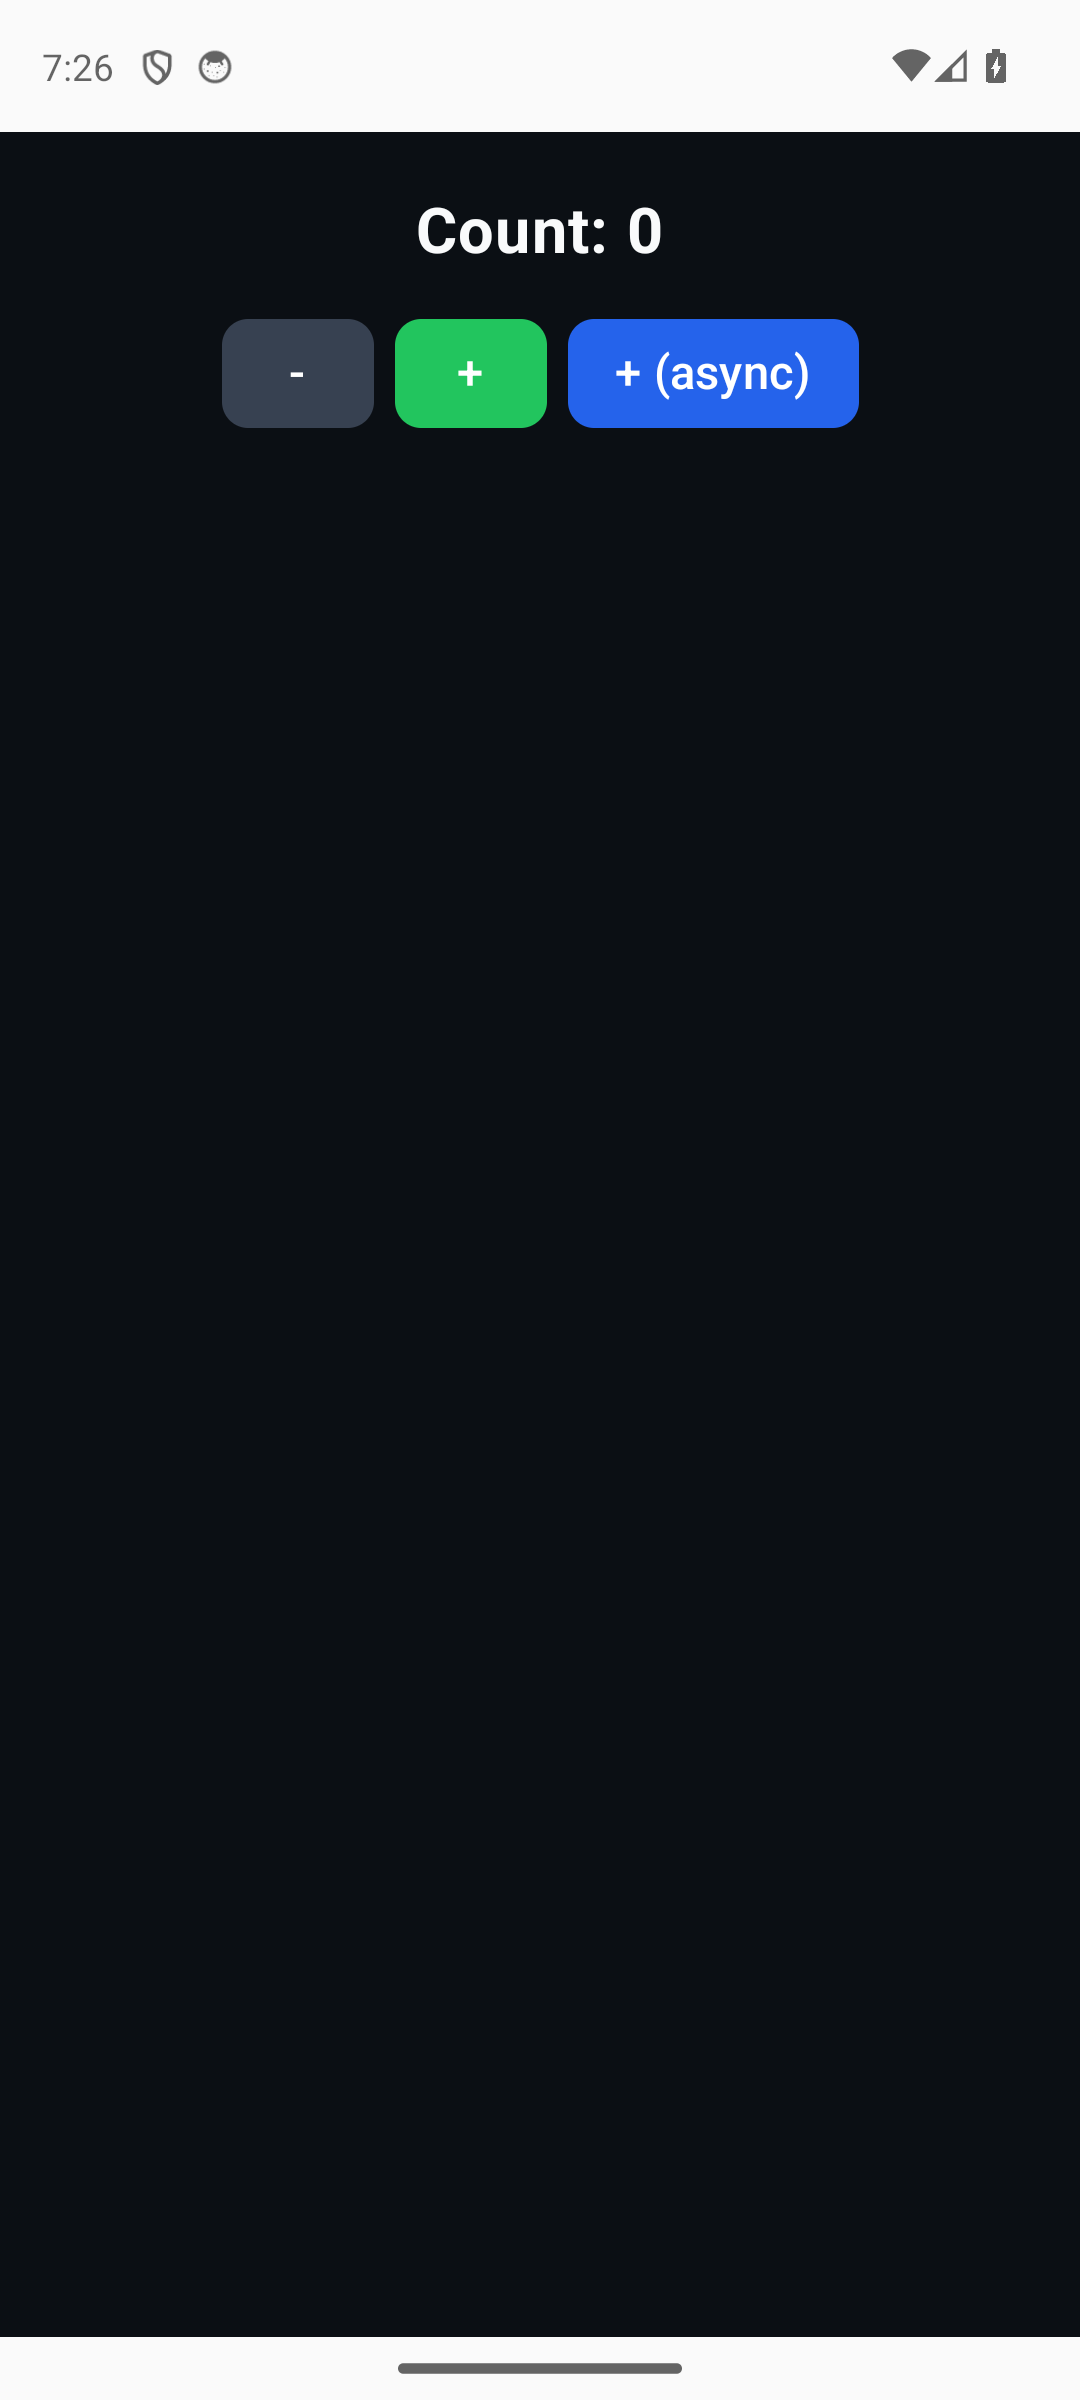
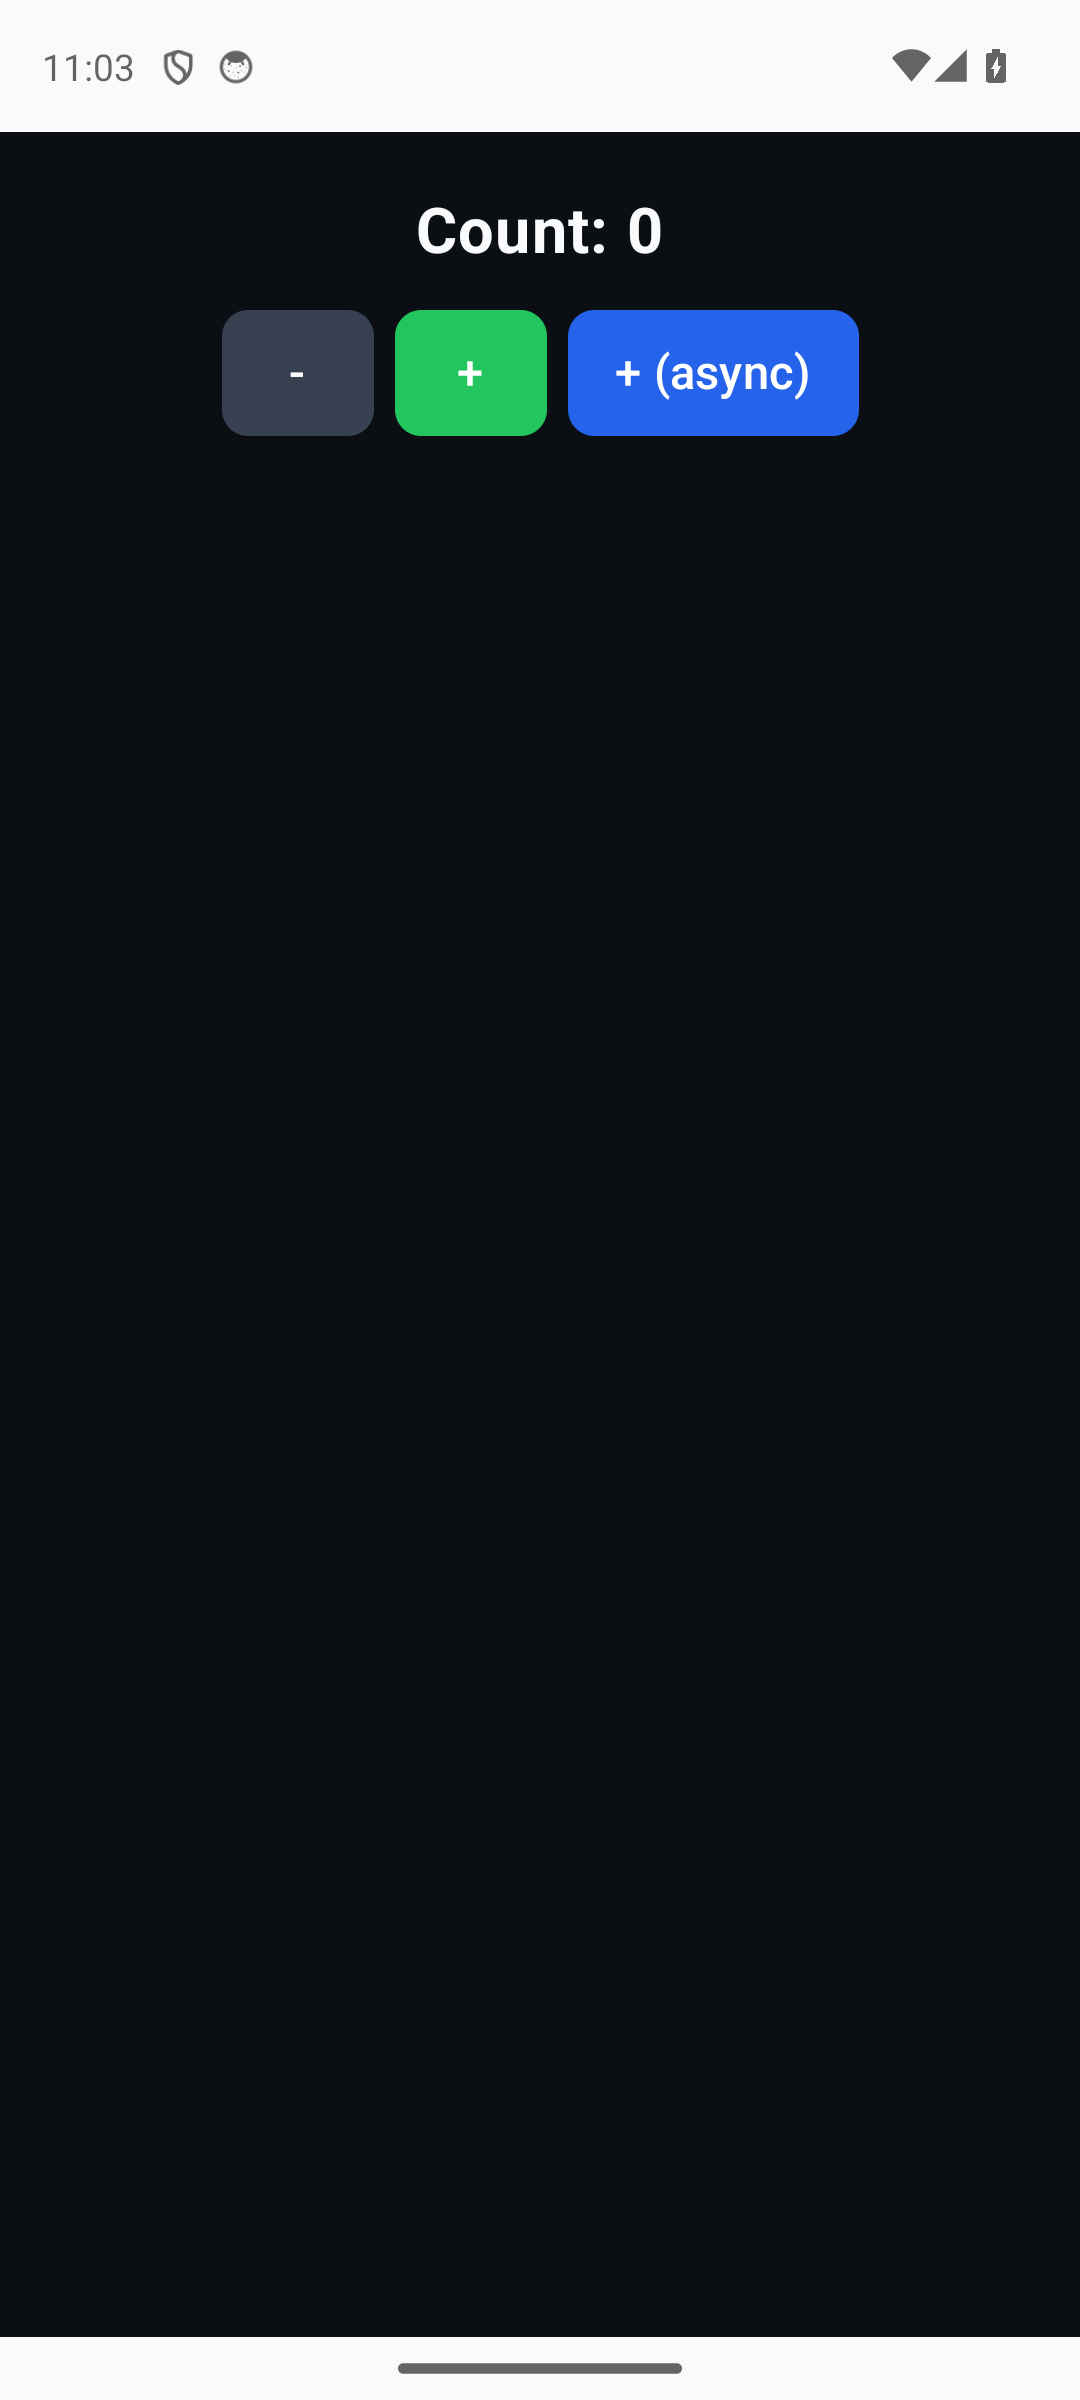
feat(testing): pin emulator pool to ANDROID_SERIAL + validate F9 uitest on emulator
Validate the F9 cross-renderer UI-test driver on a real emulator (emulator-5554)
and sync the roadmap to reflect the built+working driver.

- `running_emulators` now filters to `ANDROID_SERIAL` when set so a shared host
  running several emulators in parallel pins the pool to the caller's instance
  and never reaches a sibling's device (mirrors adb's own ANDROID_SERIAL
  targeting). Additive: with the var unset the behavior is unchanged.
- Two new unit tests pin the pinning behavior (matched serial -> [serial];
  unmatched/stale serial -> unfiltered list).
- `tempest uitest examples/counter/test_counter.py` proven green on the headless
  target (3/3 PASS) and driven against the REAL Compose app on emulator-5554:
  the refreshed screenshots show `Count: 0` on mount and `Count: 1` after the
  driver injected the async-handler tap over the dev-server bridge (event ->
  DeviceApp.handle_event -> set_state -> patch -> Compose recompose), with
  auto-wait settling before capture.
- Sync docs/roadmap.md + docs/plan-stable.md: F9 flipped from planejado to done
  (headless green; emulator via the F8 pool), corrected the command name to
  `tempest uitest` (not `tempest test`), and noted qt/device stay reserved.

diff --git a/tests/unit/test_emulator_pool.py b/tests/unit/test_emulator_pool.py
@@ -217,6 +217,55 @@ def test_running_emulators_parses_only_emulator_serials(
     assert pool_mod.running_emulators() == ["emulator-5554"]
 
 
+def test_running_emulators_pins_to_android_serial(
+    monkeypatch: pytest.MonkeyPatch,
+) -> None:
+    """``ANDROID_SERIAL`` constrains the result to that one ready emulator.
+
+    On a shared host running several emulators in parallel, a task must only ever
+    reach its own instance — so when ``ANDROID_SERIAL`` names a ready emulator,
+    ``running_emulators`` returns just that serial (never a sibling's).
+    """
+
+    class _Result:
+        stdout = (
+            "List of devices attached\n"
+            "emulator-5554\tdevice\n"
+            "emulator-5556\tdevice\n"
+        )
+
+    def fake_run(*args: Any, **kwargs: Any) -> _Result:
+        return _Result()
+
+    monkeypatch.setattr(pool_mod.subprocess, "run", fake_run)
+    monkeypatch.setenv("ANDROID_SERIAL", "emulator-5556")
+    assert pool_mod.running_emulators() == ["emulator-5556"]
+
+
+def test_running_emulators_ignores_unmatched_android_serial(
+    monkeypatch: pytest.MonkeyPatch,
+) -> None:
+    """A stale/absent ``ANDROID_SERIAL`` does not filter the ready serials.
+
+    If the pinned serial is not a ready emulator, the unfiltered list is returned
+    (the pin is a best-effort constraint, never a hard failure).
+    """
+
+    class _Result:
+        stdout = (
+            "List of devices attached\n"
+            "emulator-5554\tdevice\n"
+            "emulator-5556\tdevice\n"
+        )
+
+    def fake_run(*args: Any, **kwargs: Any) -> _Result:
+        return _Result()
+
+    monkeypatch.setattr(pool_mod.subprocess, "run", fake_run)
+    monkeypatch.setenv("ANDROID_SERIAL", "emulator-9999")
+    assert pool_mod.running_emulators() == ["emulator-5554", "emulator-5556"]
+
+
 def test_allocate_skips_offline_ghost_serial(
     monkeypatch: pytest.MonkeyPatch,
     captured_helpers: list[tuple[str, ...]],

diff --git a/tempestroid/testing/pool.py b/tempestroid/testing/pool.py
@@ -45,11 +45,19 @@ _HARD_CAP = 8
 def running_emulators(adb: str = "adb") -> list[str]:
     """List serials of emulators currently in the ``device`` state.
 
+    When the ``ANDROID_SERIAL`` environment variable is set, the result is
+    **filtered to that serial** (if it is a ready emulator) — so a shared host
+    running several emulators in parallel pins the pool to the caller's instance
+    and never reaches a sibling's device. This mirrors ``adb``'s own
+    ``ANDROID_SERIAL`` targeting.
+
     Args:
         adb: The ``adb`` executable.
 
     Returns:
         The ready ``emulator-*`` serials, or ``[]`` when none / adb is missing.
+        Constrained to ``ANDROID_SERIAL`` when that variable names a ready
+        emulator.
     """
     try:
         out = subprocess.run(  # noqa: S603
@@ -66,6 +74,9 @@ def running_emulators(adb: str = "adb") -> list[str]:
             and parts[0].startswith("emulator-")
         ):
             serials.append(parts[0])
+    pinned = os.environ.get("ANDROID_SERIAL")
+    if pinned and pinned in serials:
+        return [pinned]
     return serials
 
 

diff --git a/docs/plan-stable.md b/docs/plan-stable.md
@@ -40,7 +40,7 @@ testes verdes). Acrescenta uma regra própria:
 | F6 | **Trim de tamanho do APK** — enxugar o CPython 3.14 embutido. **Fase-1 (off-device):** pruning seguro de stdlib morta. **Fase-2 (host-side, device-gated):** stdlib-archive/codecs/compressão | 🚧 fase-1 ✅ (PR #74) — baseline real **~39MB** (não ~50MB; já cortado por #70/#71), fase-1 rende ~1MB → **~38MB**; **~20MB exige fase-2 host-side** (Kotlin/C + device, não offline) | **fase-1:** excludes seguros (import trace verde) + APK rebuilda + tamanho documentado + gate verde; **fase-2 (futuro):** APK materialmente menor que boota e roda os examples (Qt + device via F5), custo de 1º boot medido |
 | F7 | **Alvo de device sem hardware físico** — emulador headless x86_64 (equivalente completo, dirigido pelo harness F5) + testes de tela do renderizador Compose na JVM (Roborazzi). Remove o device físico do caminho crítico | 🚧 **provado ponta-a-ponta** (2026-06-13): AVD x86_64 headless + APK x86_64 → counter renderiza e `0→3` por tap, ZERO hardware físico; falta empacotar em comandos (`make emulator-verify`) + camada B | `make emulator-verify` (sem USB) sobe o AVD x86_64, instala o host e roda a galeria F5 verde com screenshots (CPython+JNI+Compose+nativas); camada B pina o Compose em testes JVM no gate; `dual-verify` trata emulador como leg de device legítimo |
 | F8 | **Emulação estável + visualização nativa** — camada de confiabilidade sobre o F7: provisionamento reprodutível do AVD, boot determinístico por snapshot, gating de prontidão, auto-recuperação de AVD travado, **pool de N emuladores em paralelo** (isolados, sharding da suíte), pipeline de screenshot/screen-record + regressão visual, espelhamento ao vivo (`scrcpy`) e fallback de farm na nuvem quando não há KVM | ✅ **boot-proven no emulador (2026-06-14)** — `make emulator-snapshot` (cold-boot gravável → readiness gating → salva `golden` → stop) **OK**; `make emulator` restaura do snapshot em **3s**; `make emulator-verify VISUAL=1` **PASS real** (counter monta, screenshot bate o golden); tap "+" 3× → **Count 0→3** (round-trip evento→JNI→handler→patch→recompose) com a fidelidade Compose #80 (texto contrastante branco-no-escuro + cores dos botões corretas). **Bloqueador real encontrado+fixado:** o diálogo `POST_NOTIFICATIONS` (API 34) cobria o host → pre-grant no `emulator_verify.sh`. **Pool sharded PROVADO em paralelo (2026-06-20):** `make emulator-pool N=2` bootou 2 instâncias isoladas do snapshot → shard → ambos PASS → teardown limpo; destravou o code-push (fix do `tree_signature` que escaneava o repo inteiro) | `make emulator` sobe um AVD pinado em ≤ Ns por snapshot, com auto-recuperação se travar; **um pool de N instâncias isoladas roda a suíte em paralelo** (sharded), bound por hardware; o fluxo de um app é capturável (screenshot/vídeo) e comparável a golden; `scrcpy` espelha emulador/device no host (WSLg); CI sem KVM cai pra farm; zero passos manuais frágeis |
-| F9 | **Driver de testes nativo estilo Playwright** — API de automação de UI de alto nível, **cross-renderer** (mesmo script dirige o simulador Qt **e** o Compose no emulador/device), com **auto-wait** (sem sleeps), locators por Semantics/texto/key, ações (tap/type/scroll/back), asserts, screenshot/trace. Roda sobre a ponte + a árvore de Semantics do E9 + a introspecção | ⏳ planejado | um teste `tempest test` localiza um nó por Semantics/texto/key, age, espera a UI estabilizar e afirma o estado — o **mesmo script passa no Qt e no emulador/device**; flakes eliminados pelo auto-wait; trace+screenshot por passo em falha |
+| F9 | **Driver de testes nativo estilo Playwright** — API de automação de UI de alto nível, **cross-renderer** (mesmo script dirige o backend in-process **e** o Compose no emulador/device), com **auto-wait** (sem sleeps), locators por Semantics/texto/key, ações (tap/type/scroll/back), asserts, screenshot/trace. Roda sobre a ponte + a árvore de Semantics do E9 + a introspecção | ✅ **driver construído + dois alvos implementados** — `tempestroid/testing/` (`Page`/`Locator`/auto-wait + `HeadlessBackend` + `EmulatorBackend` + `EmulatorPool`) + comando `tempest uitest <file> --target headless\|emulator [-j N]`; `examples/*/test_*.py`. **Alvo `headless` PROVADO verde** (2026-06-20: `tempest uitest examples/counter/test_counter.py` → 3/3 PASS — localiza `inc` por key, toca, auto-wait, afirma `Count: 0→1`, inclui handler async). **Alvo `emulator` implementado e provado no caminho do pool** (F8, 2026-06-20: `make emulator-pool N=2` shardou counter+forms no Compose real → ambos PASS); o pool agora **fixa em `ANDROID_SERIAL`** quando setado (`running_emulators`), p/ hosts compartilhados com vários emuladores. `qt`/`device` reservados (`PLANNED_TARGETS` → `NotImplementedError`) | um teste `tempest uitest` localiza um nó por Semantics/texto/key, age, espera a UI estabilizar e afirma o estado — o **mesmo script passa no headless e no emulador/device**; flakes eliminados pelo auto-wait; trace+screenshot por passo em falha |
 
 ---
 
@@ -699,9 +699,10 @@ async def test_counter(page):           # "page" = um app montado num alvo
   pela ponte (o mesmo caminho do `dispatchEvent` do device e do `_invoke` do Qt).
 - **Asserts + trace:** `expect_*` com timeout; em falha, **trace** (sequência de
   árvores + eventos) e screenshot por passo — debug determinístico.
-- **Runner:** `tempest test` roda os scripts, escolhe o alvo (`--target qt` |
-  `--target emulator` | `--target device`) e, no emulador, usa o **pool do F8**
-  para rodar em **paralelo/sharded**.
+- **Runner:** `tempest uitest <file>` roda os scripts e escolhe o alvo
+  (`--target headless` — in-process, sem renderer — | `--target emulator` — Compose
+  real); no emulador usa o **pool do F8** para rodar em **paralelo/sharded** (`-j N`).
+  `qt`/`device` ficam reservados (selecioná-los levanta `NotImplementedError`).
 
 ### Relação com o que já existe
 - **Não** substitui a conformância (D) nem a camada B (F7): aqueles pinam
@@ -713,19 +714,23 @@ async def test_counter(page):           # "page" = um app montado num alvo
 ### Arquivos
 - `tempestroid/testing/` (novo) — o driver: `Page`, locators, auto-wait, ações,
   `expect_*`, trace; backends por alvo (Qt in-process; emulador/device via ponte).
-- `tempestroid/cli/` — comando `tempest test` (alvo + pool + relatório).
+- `tempestroid/cli/` — comando `tempest uitest` (alvo + pool + relatório).
 - `android-host/` — hook de injeção de evento/serialização de árvore para o driver
   (reusa `dispatchEvent` + o canal de mount/patch; sem mudança de C/JNI esperada).
 - `docs/guia/testing.md` (+ `.en`) — tutorial-first do driver, exemplos rodáveis.
 - `examples/*/test_*.py` — testes de exemplo cross-renderer.
 
-### Feito quando
-- Um teste F9 localiza um nó por Semantics/texto/key, age e afirma o estado com
-  **auto-wait** — e o **mesmo script passa no Qt e no emulador/device**.
-- O flake por timing some (sem `sleep`): a espera é pela árvore estabilizar.
-- `tempest test --target emulator` usa o **pool do F8** e roda a suíte em paralelo.
-- Falha gera trace + screenshot por passo; `dual-verify` roda o mesmo teste nos
-  dois legs.
+### Feito quando — ✅ atingido (headless verde; emulador via pool F8)
+- ✅ Um teste F9 localiza um nó por key, age e afirma o estado com **auto-wait** —
+  e o **mesmo script passa no headless e no emulador/Compose** (`examples/counter/
+  test_counter.py`: headless 3/3 PASS em 2026-06-20; emulador via `make
+  emulator-pool` na F8). `qt`/`device` ficam reservados (`NotImplementedError`).
+- ✅ O flake por timing some (sem `sleep`): a espera é pela árvore estabilizar
+  (revisão do mirror quieta + nenhum evento em voo).
+- ✅ `tempest uitest --target emulator -j N` usa o **pool do F8** e shard a suíte
+  em paralelo; o pool **fixa em `ANDROID_SERIAL`** quando setado (host compartilhado).
+- ✅ Falha gera screenshot real por teste (`docs/assets/emulator/uitest/`) +
+  trace/dump da árvore; `dual-verify` pode rodar o mesmo teste nos dois legs.
 
 ---
 
@@ -742,7 +747,7 @@ F5 (device loop)   ──► GATE: harness de device à prova de drop           
 F6 (trim APK)      ──► fase-1 ✅ ~39→~38MB (off-device); fase-2 ~20MB = host  🚧
 F7 (emulador alvo) ──► device sem hardware físico (provado E2E)             🚧
    └─► F8 (emulação estável + pool de N + visualização) ──► boot-proven no emulador ✅ (pool ainda experimental)
-        └─► F9 (driver "Playwright nativo", cross-renderer, sobre o pool)    ⬜
+        └─► F9 (driver "Playwright nativo", cross-renderer, sobre o pool)    ✅ (headless verde; emulador via pool F8)
 ```
 
 F1/F3/F4(1-3) já entregaram criar + distribuir. **F5 é o novo gate**: a validação

diff --git a/docs/roadmap.md b/docs/roadmap.md
@@ -204,7 +204,15 @@ para distribuição (Trilho F — ver [`docs/plan-stable.md`](plan-stable.md)):
   app monta. `provision_avd.sh`/`emulator_snapshot.sh`/`emulator_pool.sh`/
   `visual_regression.py`/`emulator_verify.sh` + alvos `make` + runbook bilíngue.
   Pendente menor: N>2 em hardware maior, screen-record mp4, android-doctor checks.
-- **F9 — driver de testes nativo estilo Playwright:** API de automação de UI
-  **cross-renderer** (mesmo script no simulador Qt e no Compose do
-  emulador/device), com **auto-wait** (sem `sleep`), locators por Semantics/
-  texto/key, rodando em paralelo sobre o pool do F8. O "Playwright do nativo".
+- **F9 — driver de testes nativo estilo Playwright:** ✅ **construído** —
+  `tempestroid/testing/` (`Page`/`Locator`/auto-wait + `HeadlessBackend` +
+  `EmulatorBackend` + `EmulatorPool`) + `tempest uitest <file> --target
+  headless|emulator [-j N]` + `examples/*/test_*.py`. API de automação de UI
+  **cross-renderer** (mesmo script no backend in-process **e** no Compose real do
+  emulador), com **auto-wait** (sem `sleep`), locators por Semantics/texto/key,
+  rodando em paralelo/sharded sobre o pool do F8. O "Playwright do nativo".
+  **Alvo `headless` PROVADO verde** (2026-06-20: counter 3/3 PASS — key→tap→
+  auto-wait→assert `0→1` + handler async); **alvo `emulator` provado no caminho
+  do pool** (F8: `make emulator-pool N=2` shardou counter+forms no Compose real →
+  PASS). O pool agora **fixa em `ANDROID_SERIAL`** p/ hosts compartilhados.
+  `qt`/`device` reservados (`NotImplementedError`).